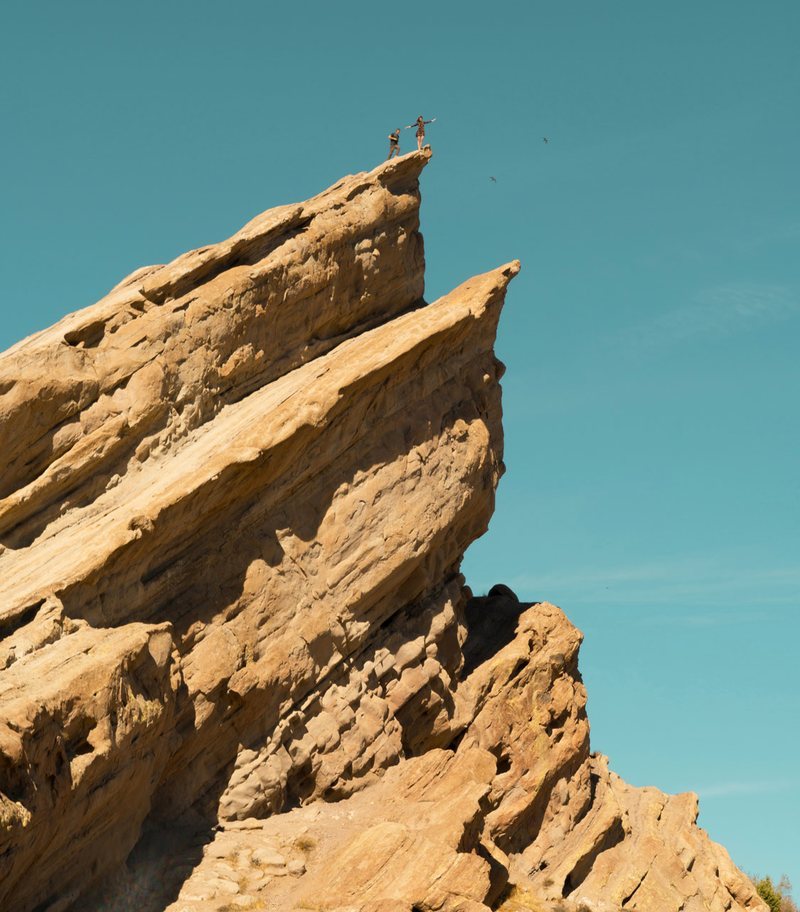
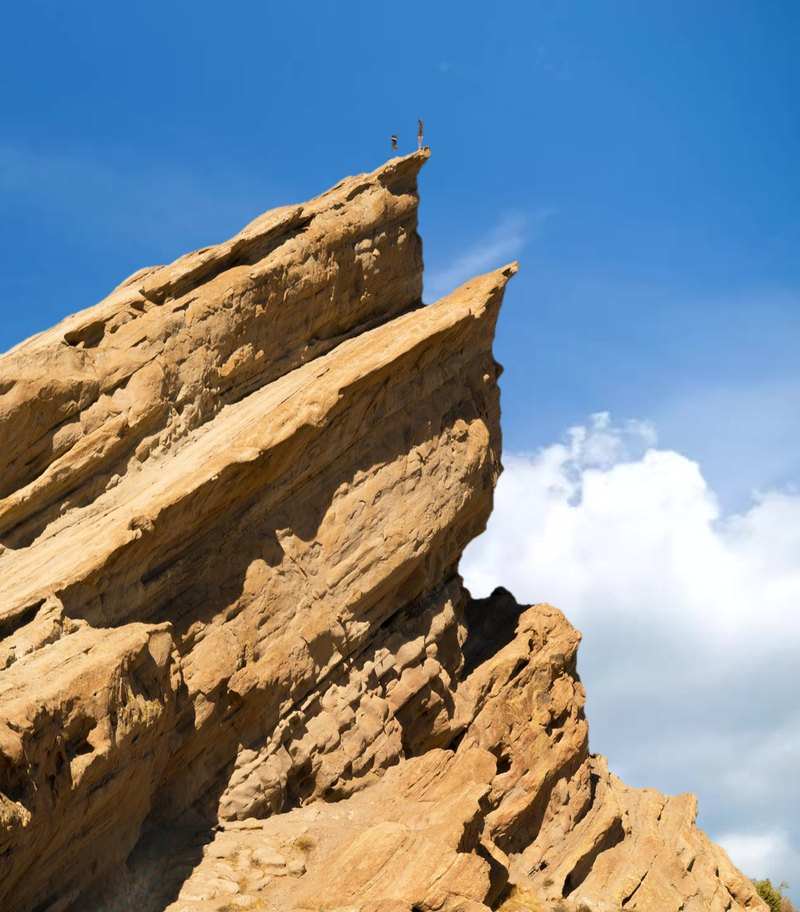
Take a pause: Vasquez Rocks under the About page sky (sky replaced in the photo, section background matches)
Claude-Session: https://claude.ai/code/session_01EAqpN8ayeNdaSbkqQzbbPy

diff --git a/portfolio/assets/css/custom.css b/portfolio/assets/css/custom.css
@@ -611,7 +611,7 @@ a, button, [role="button"] { -webkit-tap-highlight-color: transparent; }
 
 /* Homepage "Take a pause": the rock photo is framed on the peak, the two people and the sky */
 /* more sky: the photo sits narrower on the left and fades into a sky gradient sampled from its own right edge */
-.section[data-svg="breath"] { background: linear-gradient(180deg, #488790 0%, #54939d 22%, #5fa2aa 42%, #6cb0b6 62%, #7dbfc4 82%, #8ac6c9 100%); }
+.section[data-svg="breath"] { background: #3a87d2 url(../about-sky-poster.jpg) 100% 50% / cover no-repeat; } /* the same sky as the About page */
 .pause-photo { left: 0; right: auto; width: 74%; object-fit: cover; object-position: 50% 8%;
   -webkit-mask-image: linear-gradient(90deg, #000 72%, transparent 100%); mask-image: linear-gradient(90deg, #000 72%, transparent 100%); }
 @media (max-width: 767px) { .pause-photo { width: 80%; object-position: 50% 4%; } }
